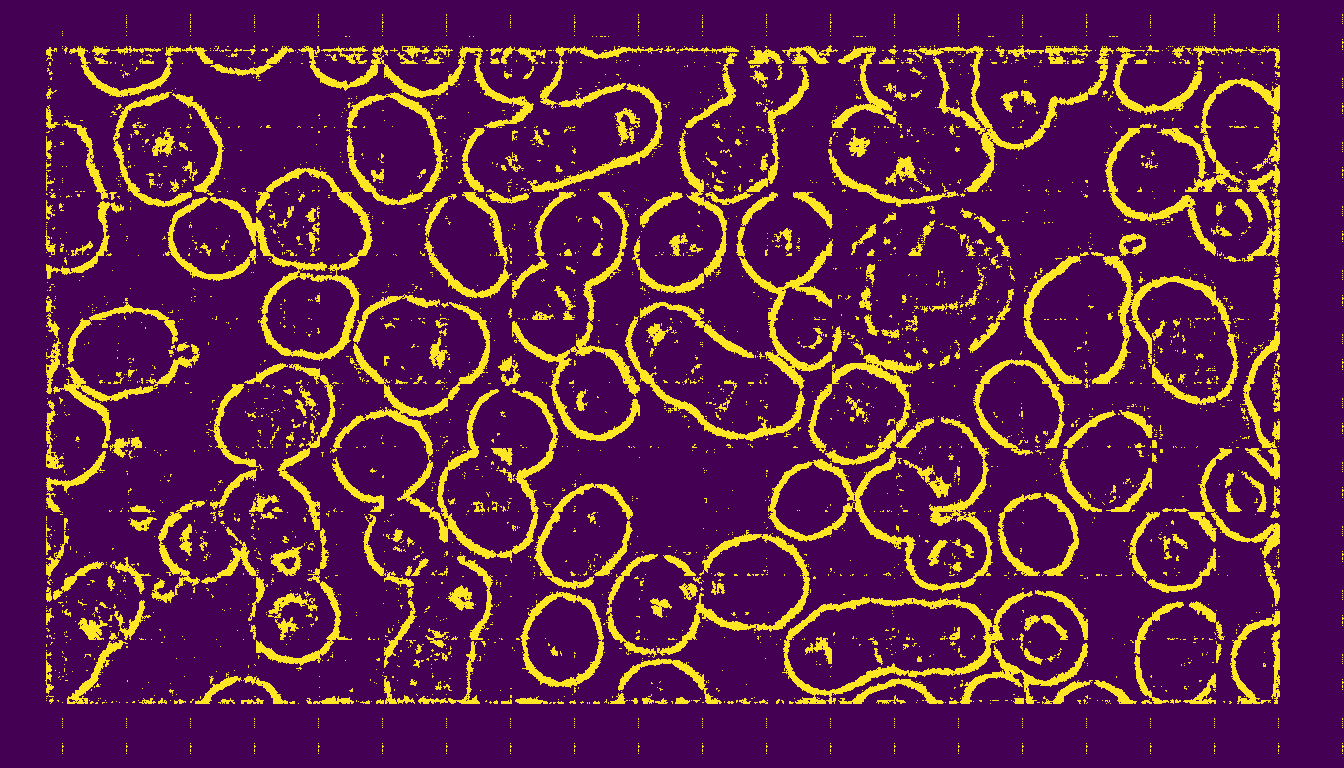
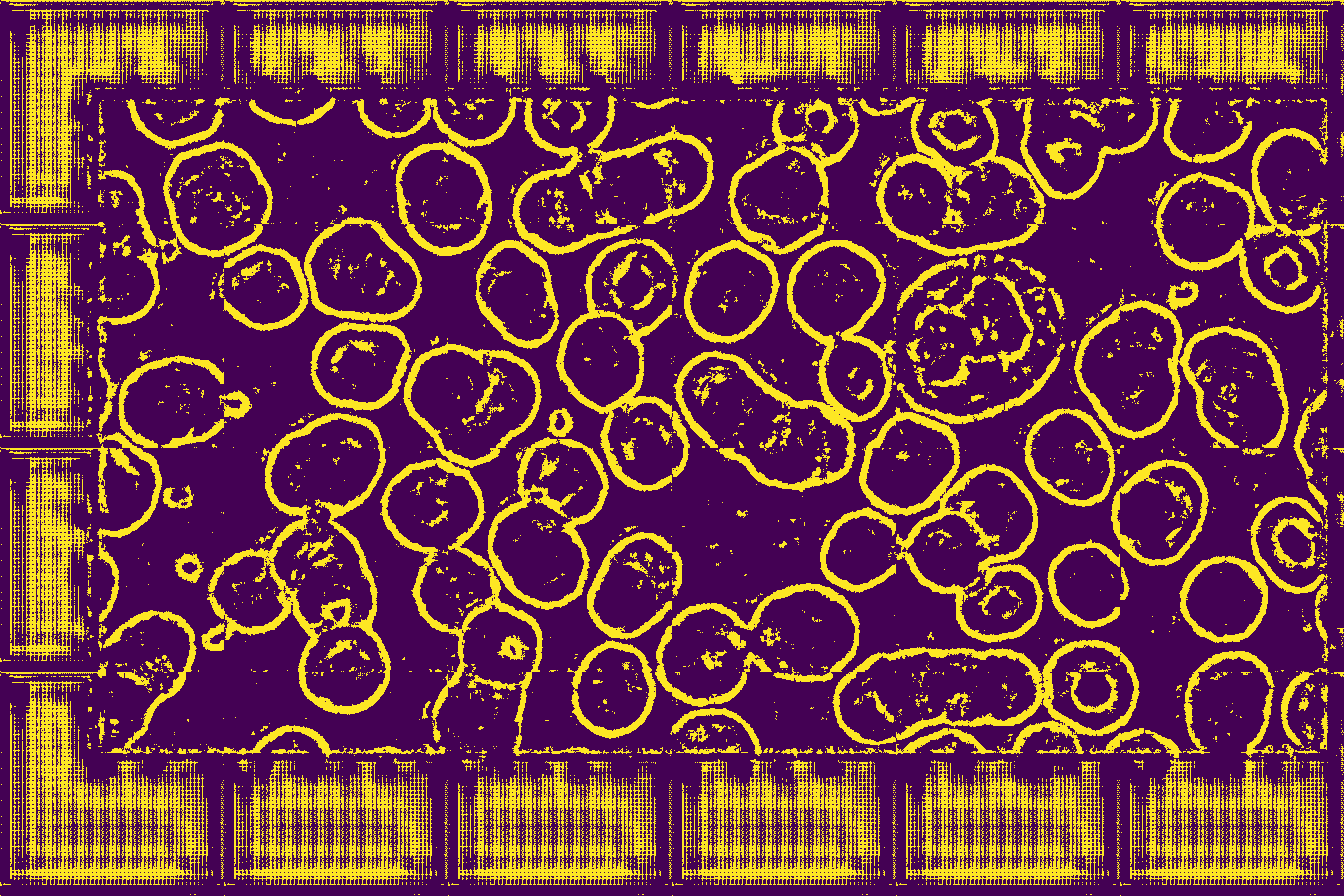
Updated segnet model!

diff --git a/src/run.py b/src/run.py
@@ -68,7 +68,7 @@ def train(model_name='binary_crossentropy'):
 
 # extract number of image chips for an image
 def get_sizes(img,
-              offset=82,
+              offset=212,
               input=224,
               output=224):
     return [(len(np.arange(offset, img[0].shape[0] - input / 2, output)), len(np.arange(offset, img[0].shape[1] - input / 2, output)))]
